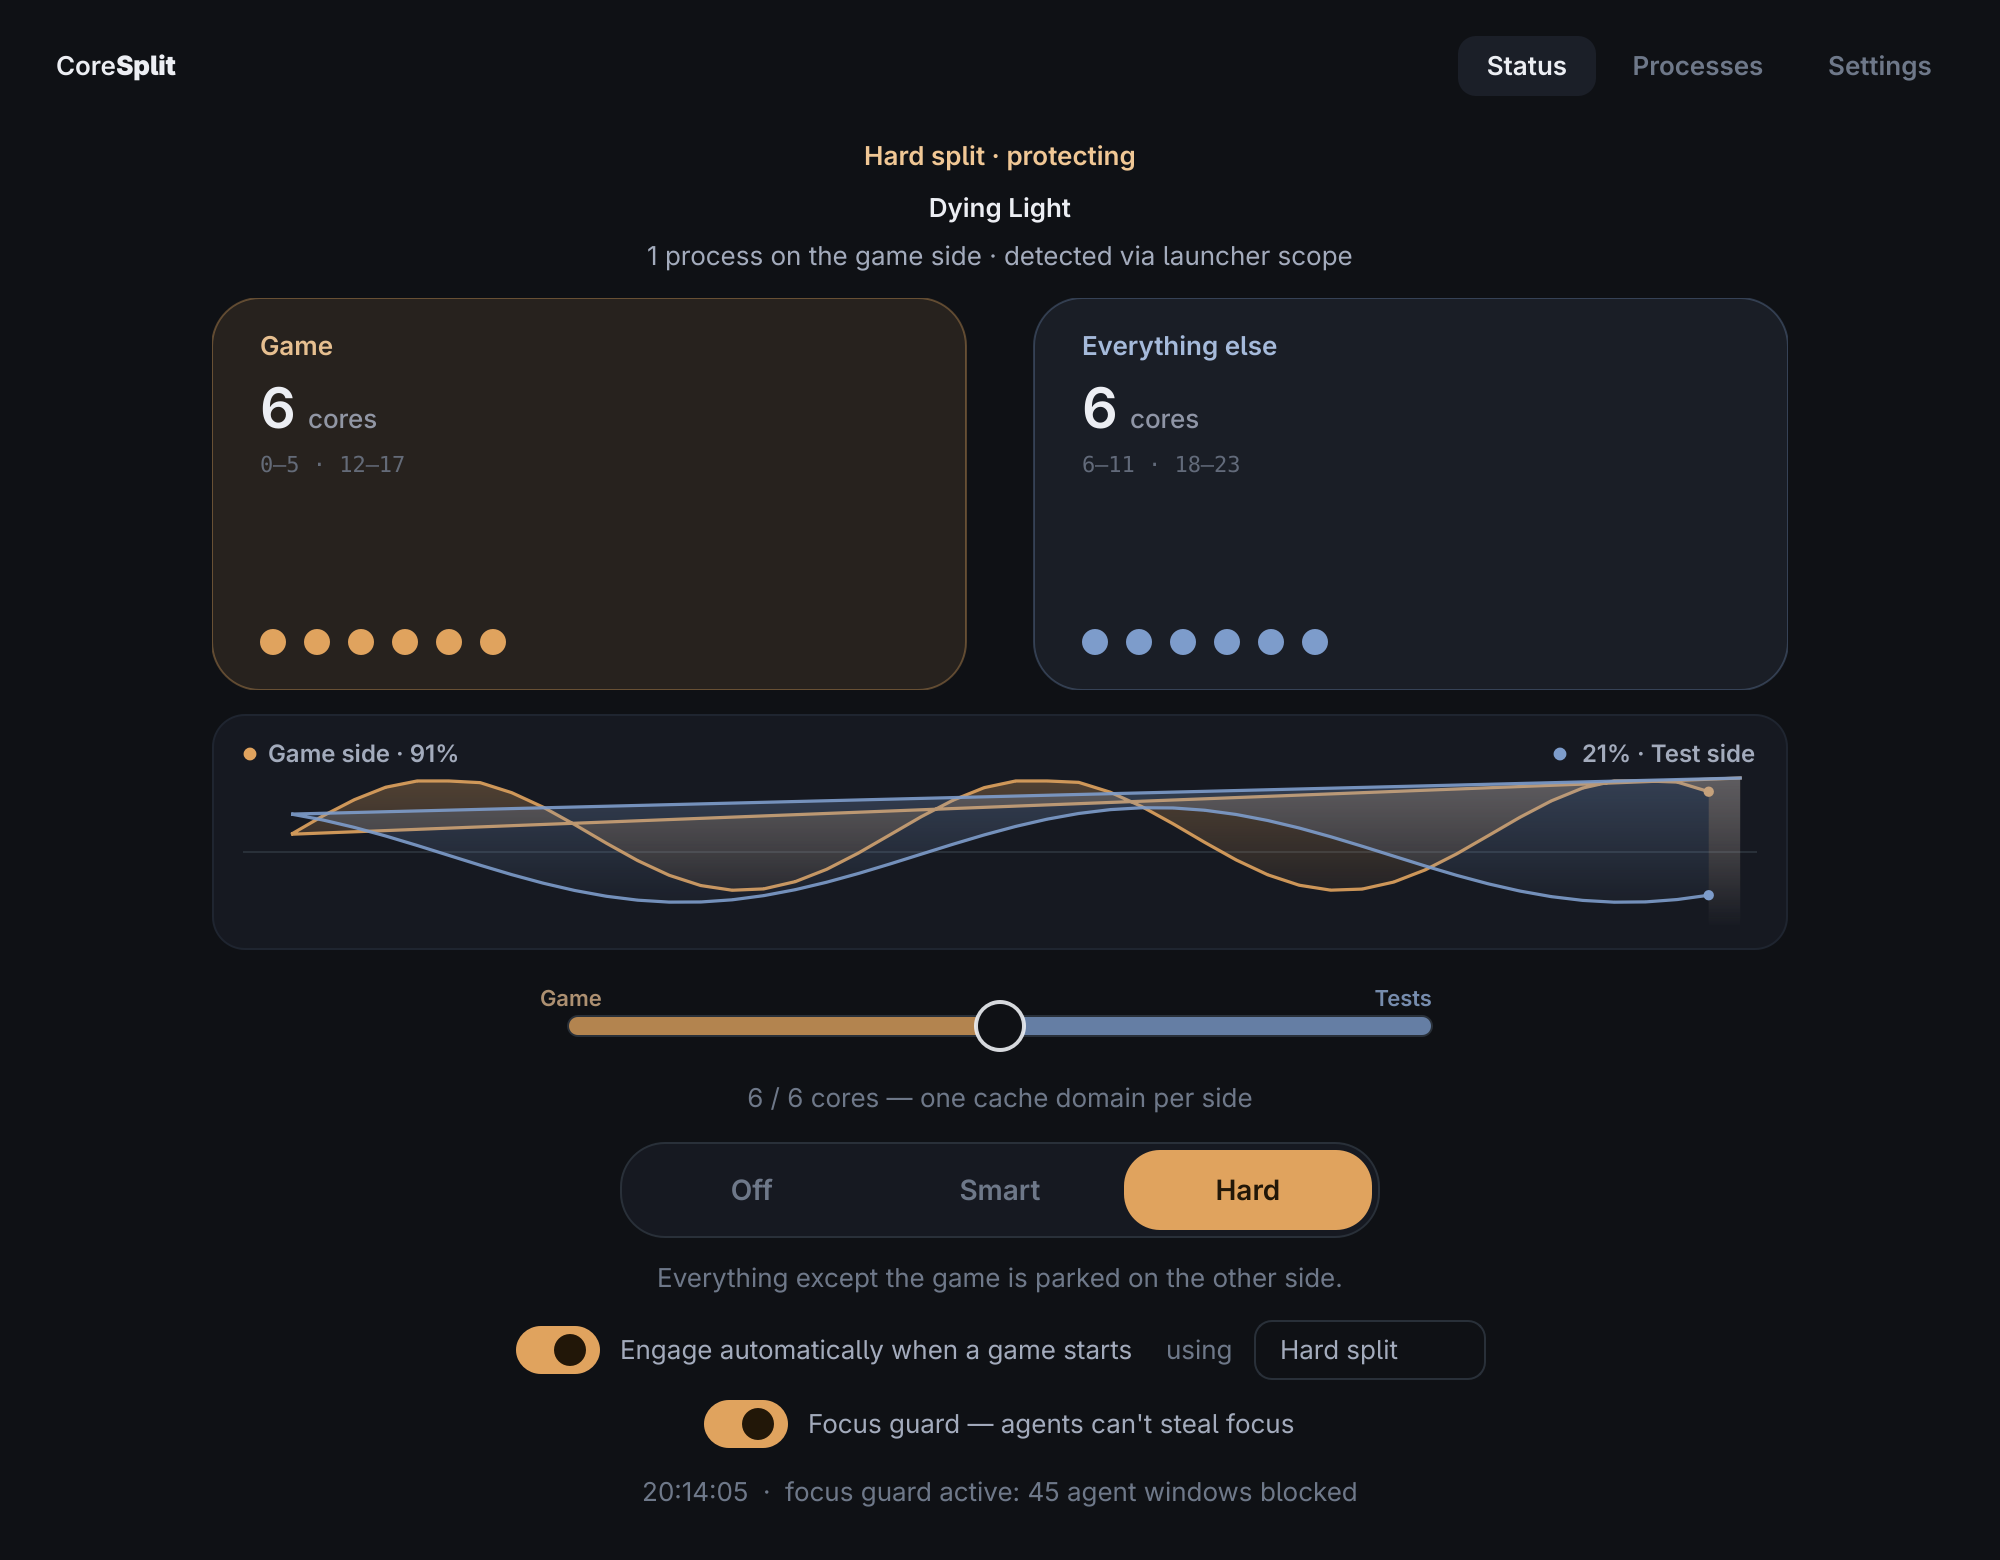
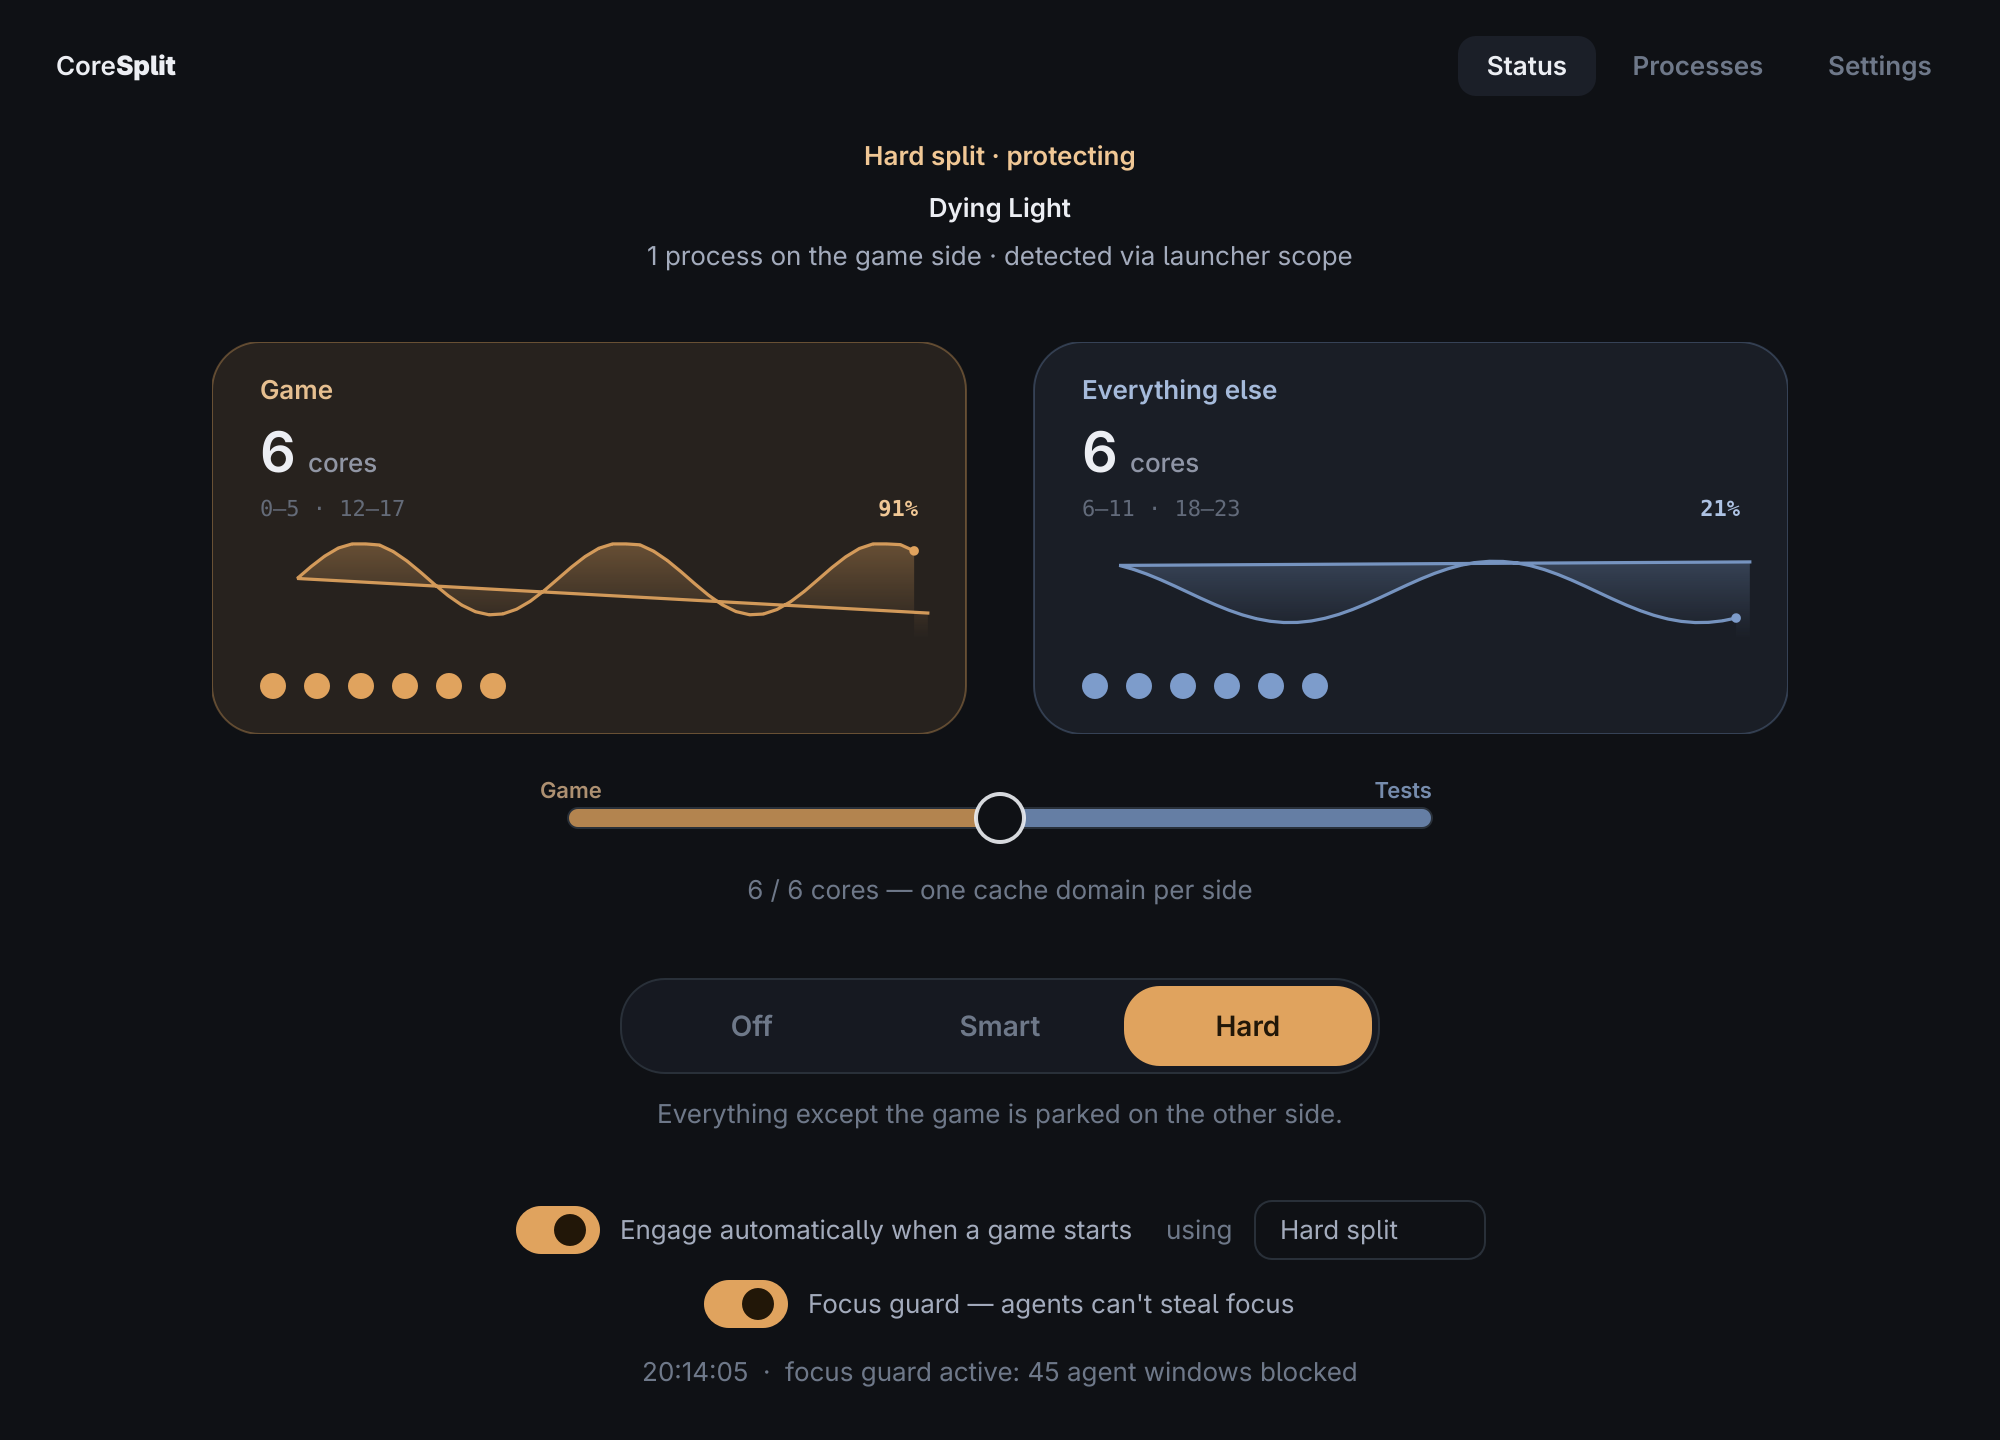
Charts move into the stage tiles; kill the per-poll scroll jump
- The standalone usage graph is gone. Each stage tile now carries its own
  60 s curve of that side's CPU usage (share of side capacity), with the
  live percentage at the right of the range row.
- Smoothness: curves are rendered with a one-poll delay and clipped to the
  tile, so a new sample slides in from the right edge instead of popping a
  segment onto the leading edge every poll. Sample spacing is measured and
  used as the render delay, so engine jitter no longer bends the scroll.
- Unit fix: proc cpu is percent-of-one-core, so share of side capacity is
  sum/n, not sum/n*100; usage was overstated 100x.

diff --git a/src/ui.py b/src/ui.py
@@ -442,11 +442,40 @@ class SplitStage(QWidget):
         self._total = 0
         self._pos = 0.0
         self._target = 0.0
+        self._warning = False
+        self._samples = deque()  # (monotonic_ts, game_pct, test_pct)
+        self._delay = 1.5        # render delay: one poll, so curves never jump
         self._anim = QVariantAnimation(self)
         self._anim.setDuration(420)
         self._anim.setEasingCurve(QEasingCurve.InOutCubic)
         self._anim.valueChanged.connect(self._on_anim)
-        self._warning = False
+        self._scroll = QTimer(self)
+        self._scroll.setInterval(33)
+        self._scroll.timeout.connect(self.update)
+
+    def add_sample(self, game_pct: float, test_pct: float):
+        now = time.monotonic()
+        if self._samples:
+            gap = now - self._samples[-1][0]
+            if 0.2 < gap < 6.0:
+                self._delay = gap
+        self._samples.append((now,
+                              max(0.0, min(100.0, game_pct)),
+                              max(0.0, min(100.0, test_pct))))
+        cutoff = now - 75.0
+        while self._samples and self._samples[0][0] < cutoff:
+            self._samples.popleft()
+        if not self._scroll.isActive():
+            self._scroll.start()
+
+    def showEvent(self, event):
+        if self._samples:
+            self._scroll.start()
+        super().showEvent(event)
+
+    def hideEvent(self, event):
+        self._scroll.stop()
+        super().hideEvent(event)
 
     def set_data(self, topo, game_cpus, test_cpus, active: bool, warning: bool = False):
         game = eng.parse_cpulist(game_cpus)
@@ -528,6 +557,7 @@ class SplitStage(QWidget):
                 cores=self._game_cores,
                 dot_color=th.mix(th.q("#5b6474"), th.AMBER_C, p),
                 warning=self._warning,
+                samples=self._samples, delay=self._delay, series=0, accent=th.AMBER_C,
             )
             self._panel(
                 painter, other_rect, radius, other_fill, other_border,
@@ -537,12 +567,13 @@ class SplitStage(QWidget):
                 sub=self._other_range, sub_alpha=fade * 0.85,
                 cores=self._other_cores,
                 dot_color=th.mix(th.q("#5b6474"), th.BLUE_C, p),
+                samples=self._samples, delay=self._delay, series=1, accent=th.BLUE_C,
             )
         painter.end()
 
     def _panel(self, painter, rect: QRectF, radius, fill, border, *, label, label_alpha,
                label_color=None, count_n, count_word, count_alpha, sub, sub_alpha, cores,
-               dot_color, warning=False):
+               dot_color, warning=False, samples=None, delay=1.5, series=0, accent=None):
         painter.setPen(QPen(border, 1))
         painter.setBrush(fill)
         painter.drawRoundedRect(rect, radius, radius)
@@ -603,6 +634,62 @@ class SplitStage(QWidget):
         painter.drawText(QRectF(rect.left() + pad, rect.top() + 76, inner_w, 14),
                          int(Qt.AlignLeft | Qt.AlignVCenter), sub)
 
+        # Live percentage, right-aligned on the range row.
+        if samples and sub_alpha > 0.05:
+            cur = samples[-1][1 + series]
+            vc = QColor(label_color)
+            vc.setAlphaF(max(0.0, min(1.0, sub_alpha * 1.3)))
+            painter.setFont(th.font(8.2, QFont.DemiBold, mono=True))
+            painter.setPen(QPen(vc))
+            painter.drawText(QRectF(rect.left() + pad, rect.top() + 76, inner_w, 14),
+                             int(Qt.AlignRight | Qt.AlignVCenter), f"{cur:.0f}%")
+
+        # Per-side usage curve, drawn inside the tile's empty middle band.
+        if samples is not None and accent is not None and len(samples) >= 2:
+            now = time.monotonic()
+            chart_top = rect.top() + 100.0
+            chart_bot = rect.bottom() - 48.0
+            if chart_bot - chart_top > 14.0:
+                clip = QPainterPath()
+                clip.addRoundedRect(QRectF(rect.left() + 1.5, rect.top() + 1.5,
+                                           rect.width() - 3, rect.height() - 3),
+                                    max(1.0, radius - 1.5), max(1.0, radius - 1.5))
+                painter.save()
+                painter.setClipPath(clip)
+                rate = inner_w / 60.0
+                pts = []
+                for (t, gv, tv) in samples:
+                    x = rect.right() - pad - (now - delay - t) * rate
+                    if x < rect.left() + pad:
+                        continue
+                    v = (gv, tv)[series]
+                    y = chart_bot - (max(0.0, min(100.0, v)) / 100.0) * (chart_bot - chart_top)
+                    pts.append(QPointF(x, y))
+                if len(pts) >= 2:
+                    path = QPainterPath(pts[0])
+                    for i in range(1, len(pts)):
+                        px, py = pts[i - 1].x(), pts[i - 1].y()
+                        cx, cy = pts[i].x(), pts[i].y()
+                        path.quadTo(QPointF(px, py), QPointF((px + cx) / 2, (py + cy) / 2))
+                        path.lineTo(pts[i])
+                    fill_path = QPainterPath(path)
+                    fill_path.lineTo(pts[-1].x(), chart_bot)
+                    fill_path.lineTo(pts[0].x(), chart_bot)
+                    fill_path.closeSubpath()
+                    grad = QLinearGradient(0, chart_top, 0, chart_bot)
+                    grad.setColorAt(0.0, th.tint(accent, 90))
+                    grad.setColorAt(1.0, th.tint(accent, 0))
+                    painter.setPen(Qt.NoPen)
+                    painter.setBrush(QBrush(grad))
+                    painter.drawPath(fill_path)
+                    painter.setBrush(Qt.NoBrush)
+                    painter.setPen(QPen(th.tint(accent, 235), 1.6))
+                    painter.drawPath(path)
+                    painter.setPen(Qt.NoPen)
+                    painter.setBrush(accent)
+                    painter.drawEllipse(pts[-1], 2.4, 2.4)
+                painter.restore()
+
         # One dot per physical core, sized to fit the panel.
         n = max(1, len(cores))
         gap = 9.0
@@ -616,138 +703,6 @@ class SplitStage(QWidget):
             x += dot + gap
 
 
-# --------------------------------------------------------------------------- #
-# usage graph
-# --------------------------------------------------------------------------- #
-
-class UsageGraph(QWidget):
-    """Rolling CPU usage for each side of the split, as two filled curves.
-
-    Samples arrive once per engine poll (1.5 s); the plot scrolls continuously
-    between them so it reads as live rather than steppy. Percentages are of
-    each side's capacity: a full game side means every game CPU is busy.
-    """
-
-    WINDOW_SECONDS = 60.0
-
-    def __init__(self):
-        super().__init__()
-        self.setFixedHeight(118)
-        self.setSizePolicy(QSizePolicy.Expanding, QSizePolicy.Fixed)
-        self._samples = deque()  # (monotonic_ts, game_pct, test_pct)
-        self._timer = QTimer(self)
-        self._timer.setInterval(33)
-        self._timer.timeout.connect(self.update)
-
-    def add_sample(self, game_pct: float, test_pct: float):
-        now = time.monotonic()
-        self._samples.append((now, game_pct, test_pct))
-        cutoff = now - self.WINDOW_SECONDS - 5
-        while self._samples and self._samples[0][0] < cutoff:
-            self._samples.popleft()
-        if not self._timer.isActive():
-            self._timer.start()
-
-    def showEvent(self, event):
-        if self._samples:
-            self._timer.start()
-        super().showEvent(event)
-
-    def hideEvent(self, event):
-        self._timer.stop()
-        super().hideEvent(event)
-
-    def paintEvent(self, event):
-        painter = QPainter(self)
-        painter.setRenderHint(QPainter.Antialiasing, True)
-        frame = QRectF(self.rect()).adjusted(0.5, 0.5, -0.5, -0.5)
-        painter.setPen(QPen(th.q(th.LINE_SOFT), 1))
-        painter.setBrush(th.q(th.SURFACE))
-        painter.drawRoundedRect(frame, 16, 16)
-
-        pad_l, pad_r, pad_t, pad_b = 16.0, 16.0, 32.0, 12.0
-        plot = QRectF(pad_l, pad_t, self.width() - pad_l - pad_r,
-                      self.height() - pad_t - pad_b)
-        now = time.monotonic()
-        rate = plot.width() / self.WINDOW_SECONDS
-
-        # Midline at 50% of capacity, and the baseline.
-        pen = QPen(th.LINE_C, 1)
-        painter.setPen(pen)
-        painter.drawLine(QPointF(plot.left(), plot.center().y()),
-                         QPointF(plot.right(), plot.center().y()))
-
-        def series(index, accent):
-            points = []
-            for t, g, tl in self._samples:
-                value = (g, tl)[index]
-                x = plot.right() - (now - t) * rate
-                if x < plot.left():
-                    continue
-                y = plot.bottom() - (value / 100.0) * plot.height()
-                points.append((x, max(plot.top(), min(plot.bottom(), y))))
-            if not points:
-                return None
-            path = QPainterPath(QPointF(*points[0]))
-            for i in range(1, len(points)):
-                x0, y0 = points[i - 1]
-                x1, y1 = points[i]
-                mid = QPointF((x0 + x1) / 2, (y0 + y1) / 2)
-                path.quadTo(QPointF(x0, y0), mid)
-                path.lineTo(QPointF(x1, y1))
-            fill = QPainterPath(path)
-            fill.lineTo(points[-1][0], plot.bottom())
-            fill.lineTo(points[0][0], plot.bottom())
-            fill.closeSubpath()
-            grad = QLinearGradient(0, plot.top(), 0, plot.bottom())
-            grad.setColorAt(0.0, th.tint(accent, 75))
-            grad.setColorAt(1.0, th.tint(accent, 0))
-            painter.setPen(Qt.NoPen)
-            painter.setBrush(QBrush(grad))
-            painter.drawPath(fill)
-            painter.setBrush(Qt.NoBrush)
-            painter.setPen(QPen(th.tint(accent, 230), 1.6))
-            painter.drawPath(path)
-            lx, ly = points[-1]
-            painter.setPen(Qt.NoPen)
-            painter.setBrush(accent)
-            painter.drawEllipse(QPointF(lx, ly), 2.6, 2.6)
-            return points[-1]
-
-        series(0, th.AMBER_C)
-        series(1, th.BLUE_C)
-
-        # Legend with the live values.
-        painter.setFont(th.font(8.8, QFont.DemiBold))
-        if self._samples:
-            _, g, t = self._samples[-1]
-            left_text = f"Game side · {g:.0f}%"
-            right_text = f"{t:.0f}% · Test side"
-        else:
-            left_text, right_text = "Game side", "Test side"
-        legend_y = 20.0
-        painter.setPen(Qt.NoPen)
-        painter.setBrush(th.AMBER_C)
-        painter.drawEllipse(QPointF(pad_l + 3, legend_y), 3.2, 3.2)
-        painter.setPen(QPen(th.TEXT_2_C))
-        painter.drawText(QPointF(pad_l + 12, legend_y + 4), left_text)
-        right_metrics = QFontMetrics(painter.font())
-        right_w = right_metrics.horizontalAdvance(right_text)
-        painter.setPen(Qt.NoPen)
-        painter.setBrush(th.BLUE_C)
-        painter.drawEllipse(QPointF(self.width() - pad_r - right_w - 11, legend_y), 3.2, 3.2)
-        painter.setPen(QPen(th.TEXT_2_C))
-        painter.drawText(QPointF(self.width() - pad_r - right_w, legend_y + 4), right_text)
-
-        if len(self._samples) < 2:
-            painter.setFont(th.font(8.8))
-            painter.setPen(QPen(th.TEXT_3_C))
-            painter.drawText(plot, int(Qt.AlignCenter), "gathering samples…")
-        painter.end()
-
-
-# --------------------------------------------------------------------------- #
-# process table
 # --------------------------------------------------------------------------- #
 
 class ProcessModel(QAbstractTableModel):
@@ -970,8 +925,8 @@ class MainWindow(QMainWindow):
         self.bridge = bridge
         self.cfg = config
         self.setWindowTitle("CoreSplit")
-        self.resize(1000, 780)
-        self.setMinimumSize(880, 700)
+        self.resize(1000, 720)
+        self.setMinimumSize(880, 660)
         self._pending_mode: str | None = None
         self._mode = "off"
         self._pending_timer = QTimer(self)
@@ -1067,16 +1022,7 @@ class MainWindow(QMainWindow):
         stage_holder.addStretch(1)
         column.addLayout(stage_holder)
 
-        column.addSpacing(12)
-
-        graph_holder = QHBoxLayout()
-        graph_holder.addStretch(1)
-        self.graph = UsageGraph()
-        graph_holder.addWidget(self.graph, 12)
-        graph_holder.addStretch(1)
-        column.addLayout(graph_holder)
-
-        column.addSpacing(16)
+        column.addSpacing(20)
 
         slider_holder = QHBoxLayout()
         slider_holder.addStretch(1)
@@ -1461,13 +1407,15 @@ class MainWindow(QMainWindow):
                 self.engine.topo.core_count(eng.parse_cpulist(snap["game_cpus"])))
         self._update_slider_caption(snap["game_cpus"], snap["test_cpus"])
 
-        # Per-side usage as a share of each side's capacity.
+        # Per-side usage as a share of each side's capacity, charted in the tiles.
+        # proc cpu is percent-of-one-core, so a fully busy side sums to ~100*n;
+        # share of capacity is therefore sum / n.
         g_cpu = sum(row["cpu"] for row in snap["procs"] if row["role"] == "game")
         t_cpu = sum(row["cpu"] for row in snap["procs"] if row["role"] == "test")
         g_cap = max(1, len(eng.parse_cpulist(snap["game_cpus"])))
         t_cap = max(1, len(eng.parse_cpulist(snap["test_cpus"])))
-        self.graph.add_sample(min(100.0, 100.0 * g_cpu / g_cap),
-                              min(100.0, 100.0 * t_cpu / t_cap))
+        self.stage.add_sample(min(100.0, g_cpu / g_cap),
+                              min(100.0, t_cpu / t_cap))
 
         self._update_status_text(snap)
         self.model.set_rows(snap["procs"])
